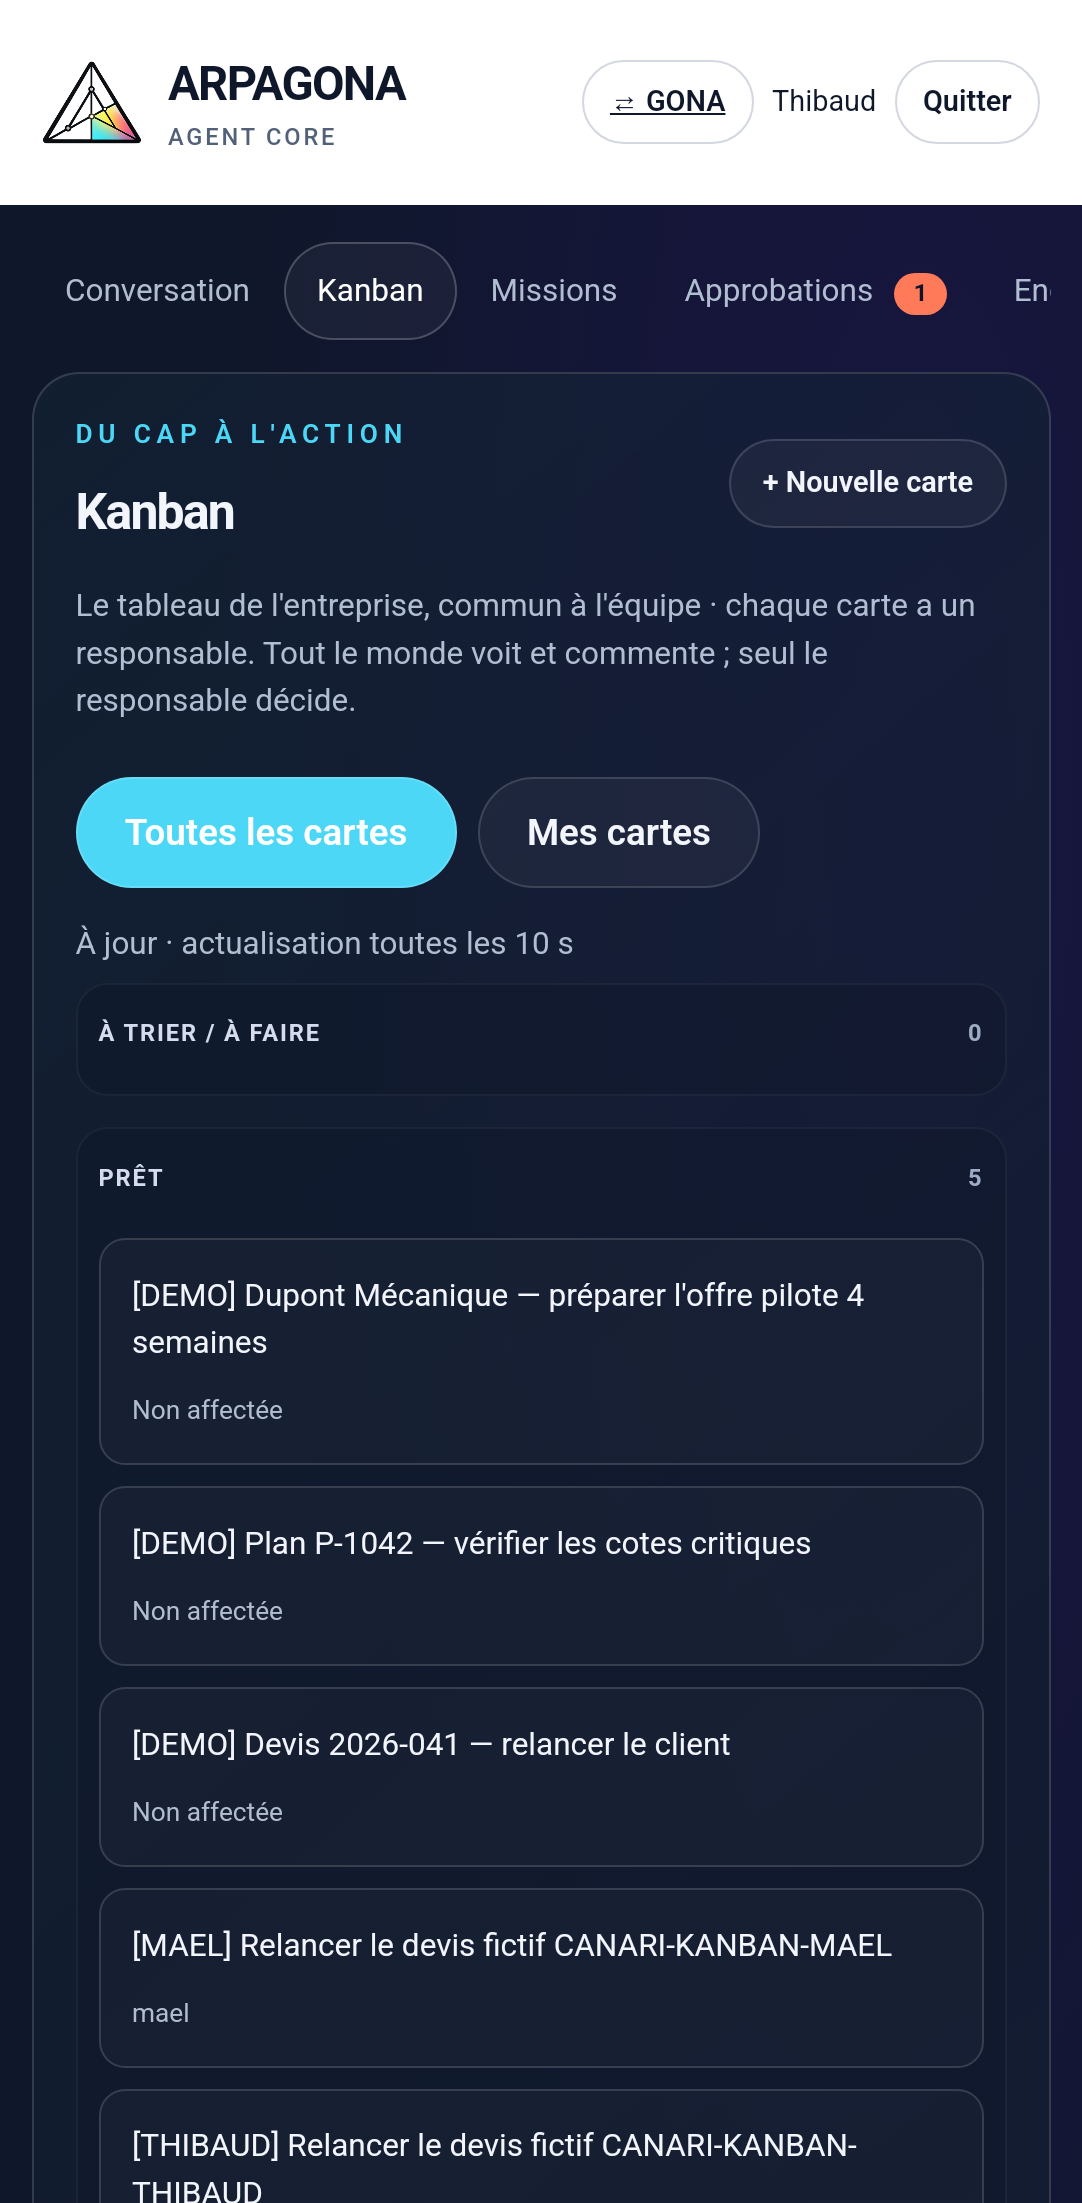
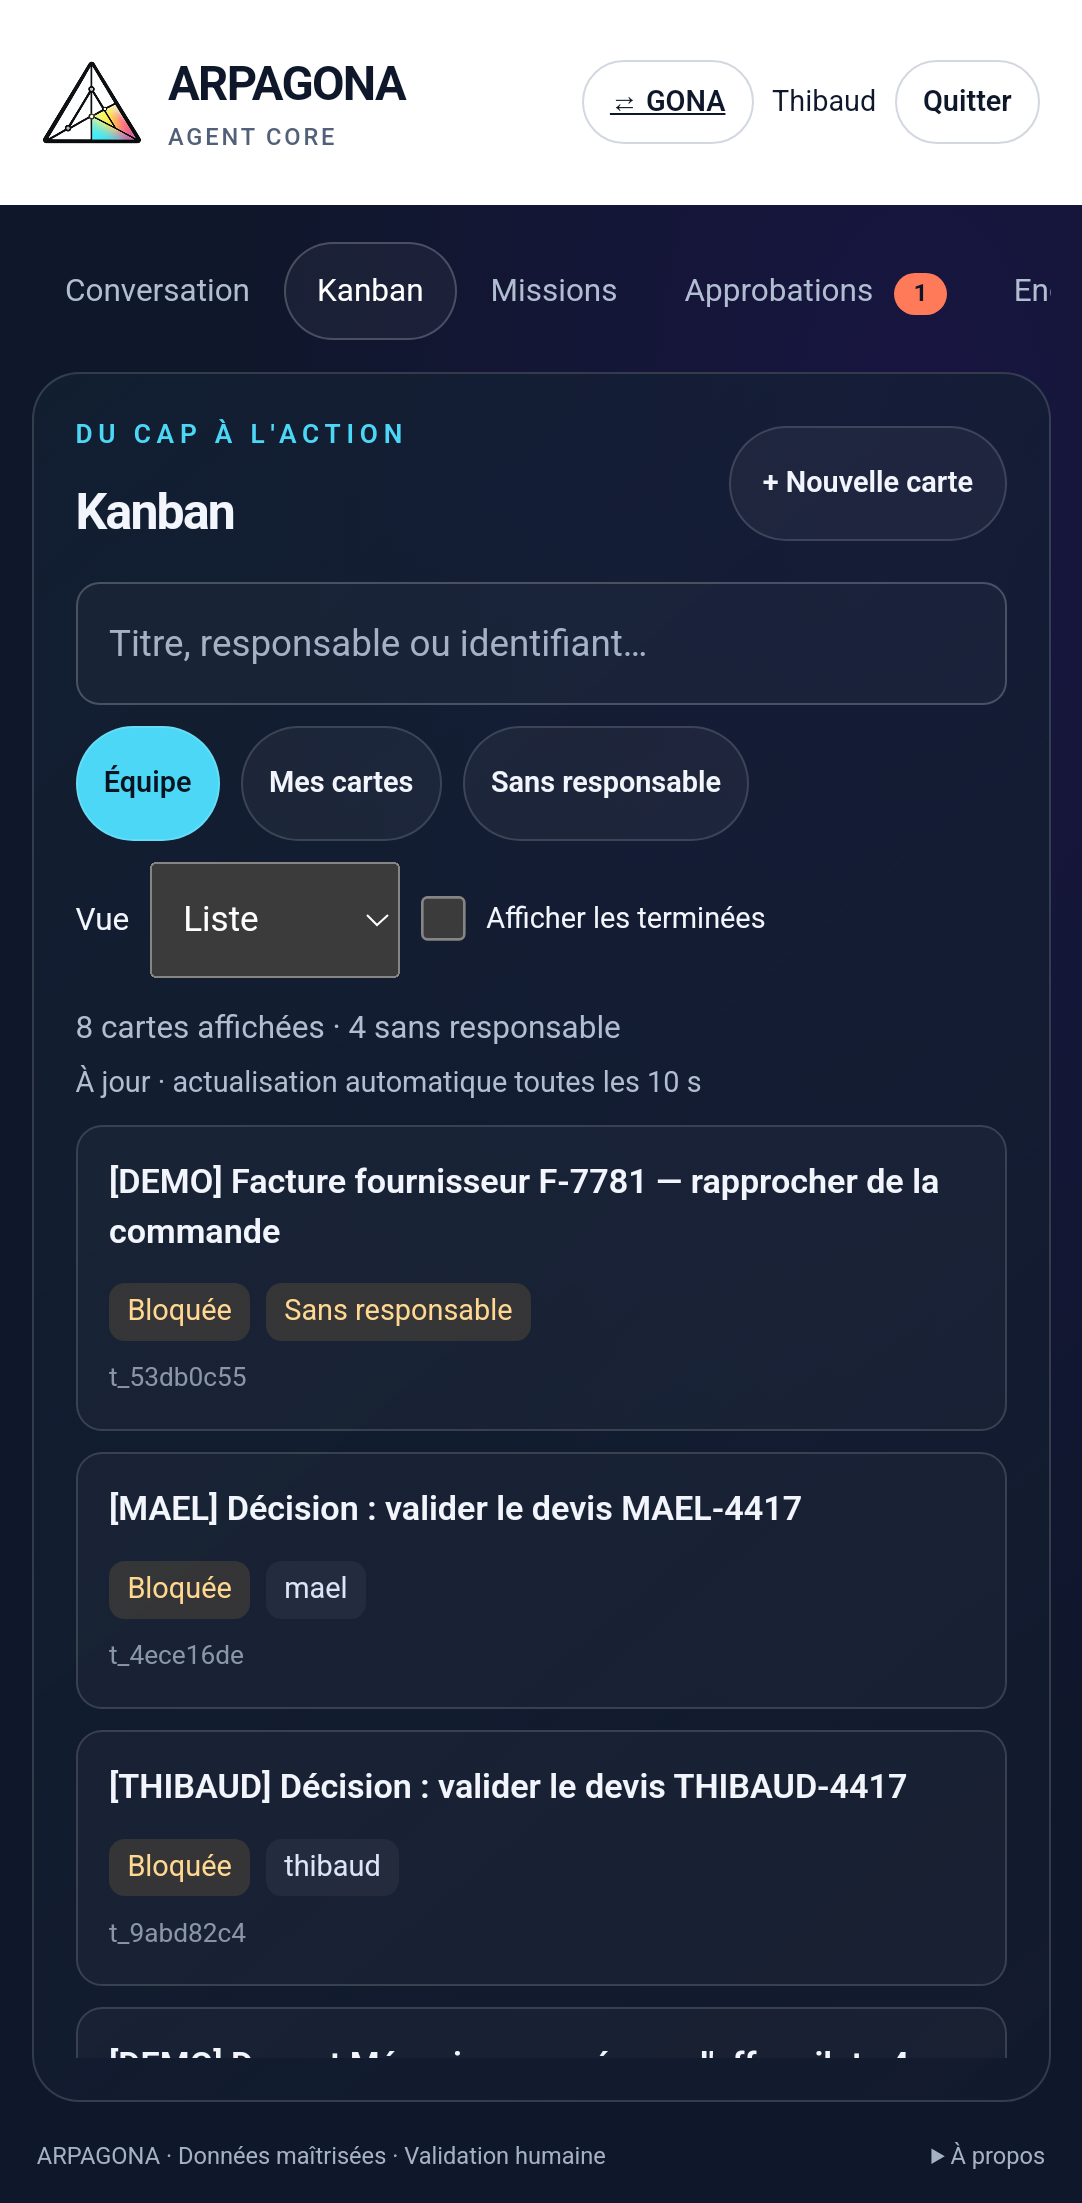
Kanban : preuves de vérification sur appareils, retrait des sondes jetables

diff --git a/reports/2026-11-27-kanban-ergonomie.md b/reports/2026-11-27-kanban-ergonomie.md
@@ -64,6 +64,12 @@ Résultats cumulés : API **99 OK**, développement **31 OK**, JavaScript **13 O
 
 **Défaut trouvé sur l’appareil** : l’application Android ouverte avant le déploiement continuait d’afficher l’ancienne interface (`kanban-view.js` absent, `KanbanView is not defined`) parce que la page restait en mémoire. Le service worker ne mettait rien en cache : le défaut venait de l’absence de contrôle de version. Corrigé par l’empreinte `ui` de `/api/health` et le rechargement automatique au retour au premier plan. Couvert par un test de bout en bout (fichier d’interface modifié à chaud, page rechargée) et par une mutation dédiée.
 
+### Résultat de la vérification après ce correctif
+
+- **Android (émulateur API 35)** : après déploiement, l’application a été rechargée puis contrôlée sur `https://10.68.100.1:8700/` : empreinte mémorisée `83a71b2697be`, champ de recherche, filtres d’équipe, mode Tableau/Liste et module `KanbanView` actifs. Le chemin de rechargement a ensuite été déclenché dans la page réelle : la page s’est rechargée seule et a repris l’empreinte courante. La capture est dans `reports/proofs/2026-11-27-kanban-android.png`.
+- **iMac** : rejoint Atlas en HTTPS sans option de confiance (`200`), CA du banc présent dans le magasin système **et** dans le profil Firefox, mêmes octets servis, page ouverte dans Firefox. **Rendu visuel non capturé** : sur cette session GNOME Wayland, `grim` et `gnome-screenshot` sont refusés à un processus hors session, et le service d’automatisation aperçu a perdu sa session. À confirmer d’un coup d’œil sur l’écran de l’iMac, où l’onglet est ouvert.
+
+
 ## État du chantier
 
 Travail commité sur la branche, PR en brouillon, CI verte sur le commit exact. **Aucune fusion ni déploiement au moment de cette rédaction** : la suite de ce document couvre la mise en service.
